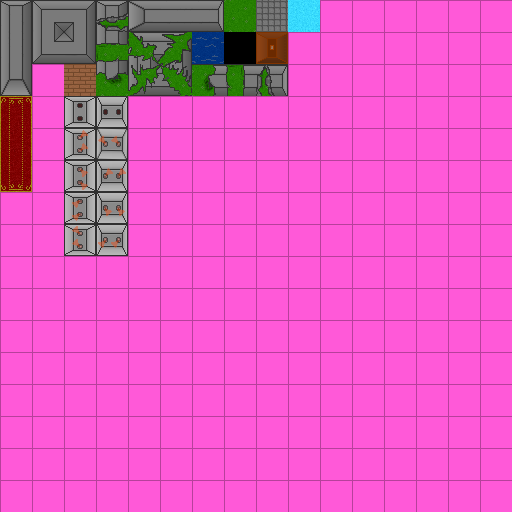
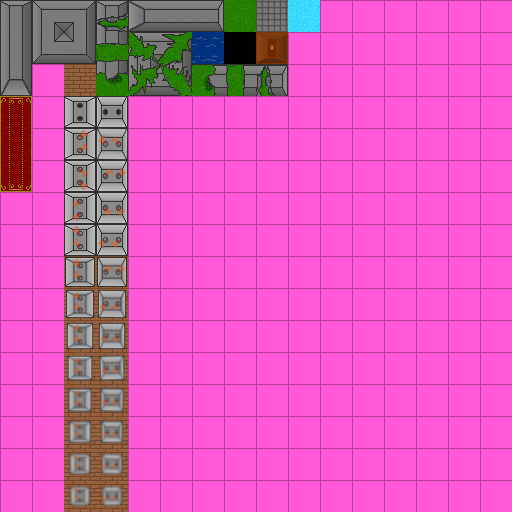
Added Door animations

Changed region(s): [[0.125, 0.5, 0.25, 1.0]]

diff --git a/game/tile/TileDoor.java b/game/tile/TileDoor.java
@@ -22,11 +22,14 @@ public class TileDoor extends Tile
 		if(active)
 		{
 			animStage++;
-			if(animStage == 4)
-				animStage = 0;
-			sprite = startSprite +(16 * animStage);
+			if(animStage >= 224)
+			{
+				sprite = 34;
+			}else
+			sprite = startSprite +(16 * (animStage/16));
+		}else
+		{
+			animStage = 0;
 		}
 	}
-
-
 }
